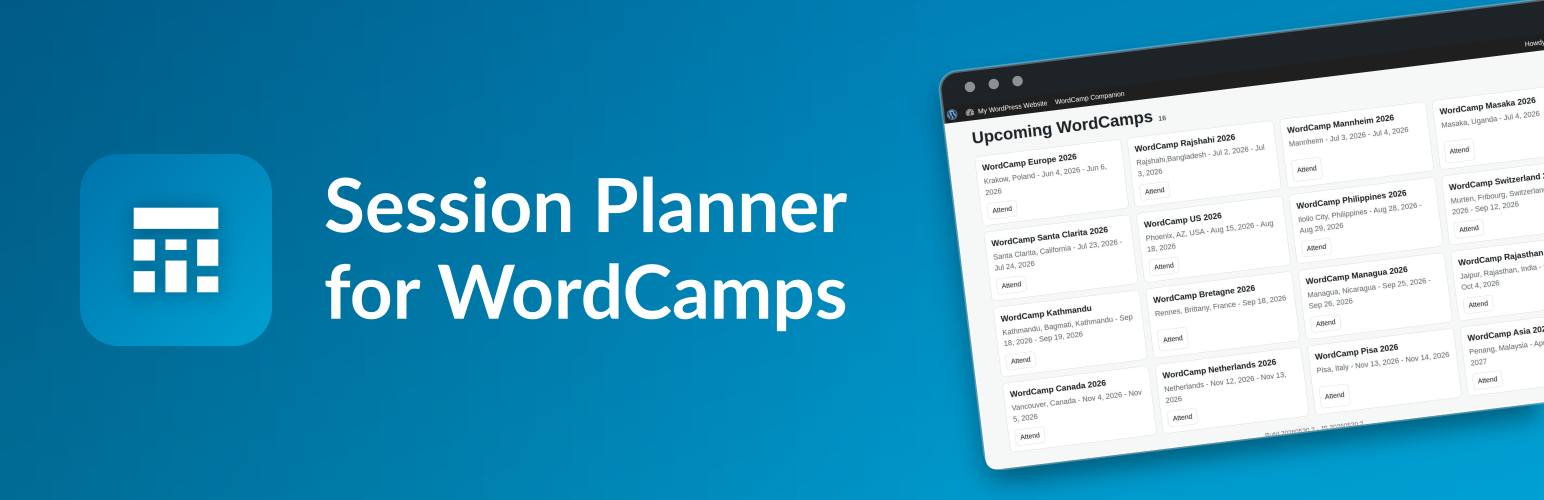
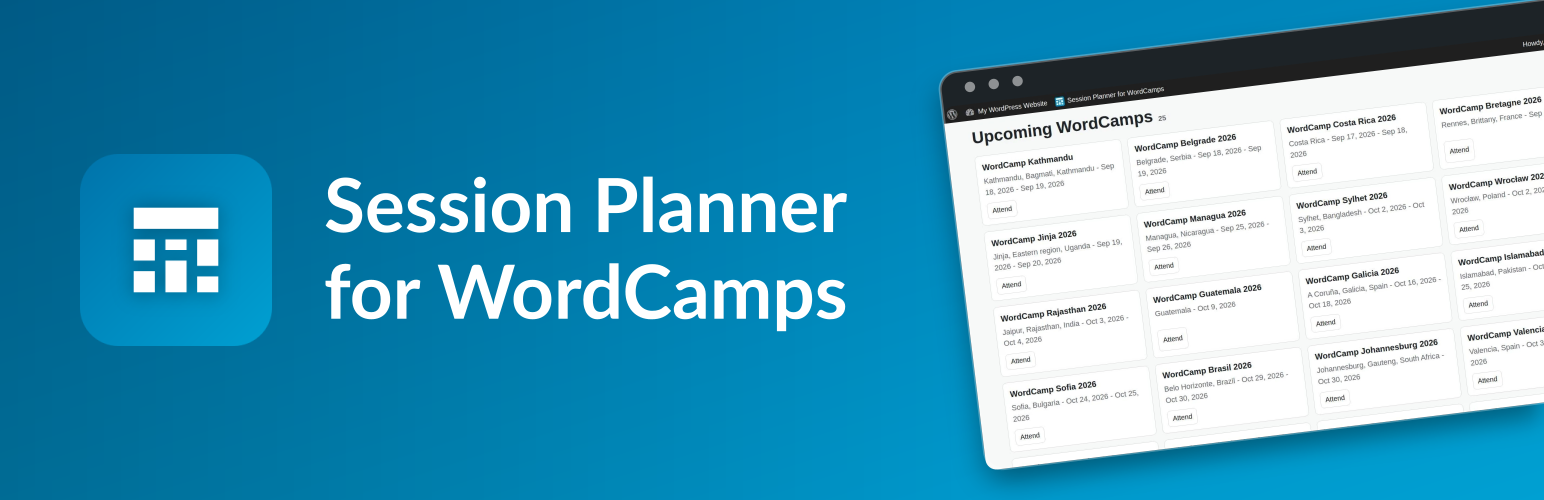
Replace the screenshot with one taken after the rename
The committed screenshot still had the old plugin name in the admin bar, which
is the one thing a directory listing should not show. The catalog has a shot
taken since, so the listing now carries the current name.

Its caption described a timeline the screenshot does not show, so it now
describes the list of upcoming events it does. The banner follows
`screenshot-1` and is regenerated with it.

Claude-Session: https://claude.ai/code/session_01VX3ACFuenLQDRp2TfEuuKF

diff --git a/README.md b/README.md
@@ -83,7 +83,7 @@ The companion view can also display links to Google Maps and OpenStreetMap for v
 
 ## Screenshots
 
-1. The companion timeline with arrival, track changes, saved sessions, and day endings.
+1. The WordCamps coming up, each with its dates and where it is, and the button that adds it to your plan.
 
 ## Changelog
 
